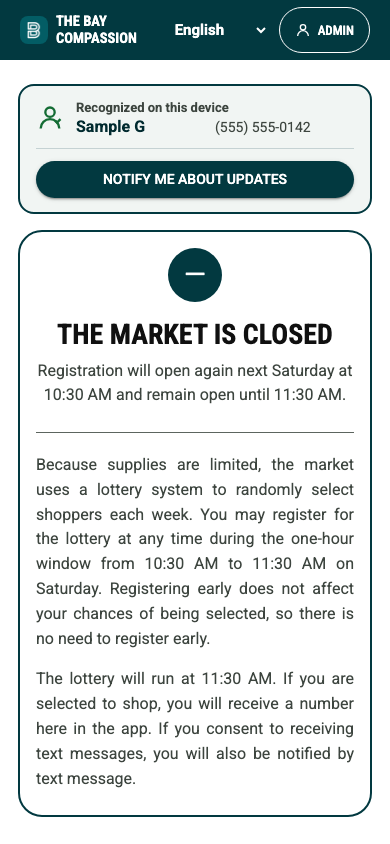
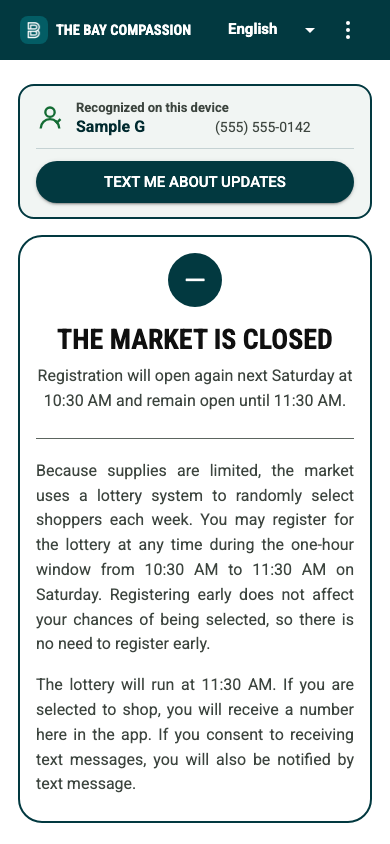
fix: update SMS consent labels and translations for clarity (#87)
- Replaced "Notify Me About Updates" with "Text Me About Updates" across the UI.
- Updated translations for all supported languages to reflect the new terminology.
- Adjusted related scripts, HTML content, and images to align with label changes.

diff --git a/src/locales.ts b/src/locales.ts
@@ -195,10 +195,10 @@ export const translations = {
 				questionsLegend: 'Questions',
 			},
 			identityIndicator: {
-				closeNotificationsDialog: 'Close notification updates',
+				closeNotificationsDialog: 'Close text message updates',
 				heading: 'Recognized on this device',
-				notificationsAction: 'Notify Me About Updates',
-				notificationsDialogTitle: 'Notification Updates',
+				notificationsAction: 'Text Me About Updates',
+				notificationsDialogTitle: 'Text Message Updates',
 				notificationsEnabled: 'Notifications Enabled',
 				notificationsError:
 					'We could not retrieve your notification status. Please try again later.',
@@ -366,10 +366,10 @@ export const translations = {
 				questionsLegend: 'Preguntas',
 			},
 			identityIndicator: {
-				closeNotificationsDialog: 'Cerrar actualizaciones de notificaciones',
+				closeNotificationsDialog: 'Cerrar actualizaciones por SMS',
 				heading: 'Reconocido en este dispositivo',
-				notificationsAction: 'Notificarme sobre novedades',
-				notificationsDialogTitle: 'Actualizaciones por notificación',
+				notificationsAction: 'Enviarme novedades por SMS',
+				notificationsDialogTitle: 'Actualizaciones por SMS',
 				notificationsEnabled: 'Notificaciones activadas',
 				notificationsError:
 					'No pudimos consultar el estado de sus notificaciones. Inténtelo de nuevo más tarde.',
@@ -539,10 +539,10 @@ export const translations = {
 				questionsLegend: 'پرسشها',
 			},
 			identityIndicator: {
-				closeNotificationsDialog: 'بستن بهروزرسانی اعلانها',
+				closeNotificationsDialog: 'بستن بهروزرسانیهای پیامکی',
 				heading: 'شناساییشده در این دستگاه',
-				notificationsAction: 'مرا از بهروزرسانیها باخبر کنید',
-				notificationsDialogTitle: 'بهروزرسانیهای اعلان',
+				notificationsAction: 'بهروزرسانیها را برایم پیامک کنید',
+				notificationsDialogTitle: 'بهروزرسانیهای پیامکی',
 				notificationsEnabled: 'اعلانها فعال هستند',
 				notificationsError: 'وضعیت اعلانهای شما دریافت نشد. لطفاً بعداً دوباره تلاش کنید.',
 				notificationsLoading: 'در حال بررسی وضعیت اعلانها…',
@@ -709,10 +709,10 @@ export const translations = {
 				questionsLegend: 'Mga tanong',
 			},
 			identityIndicator: {
-				closeNotificationsDialog: 'Isara ang mga update sa abiso',
+				closeNotificationsDialog: 'Isara ang mga update sa text',
 				heading: 'Nakilala sa device na ito',
-				notificationsAction: 'Abisuhan Ako Tungkol sa mga Update',
-				notificationsDialogTitle: 'Mga Update sa Abiso',
+				notificationsAction: 'I-text sa Akin ang mga Update',
+				notificationsDialogTitle: 'Mga Update sa Text',
 				notificationsEnabled: 'Naka-enable ang mga Abiso',
 				notificationsError:
 					'Hindi namin makuha ang status ng iyong mga abiso. Pakisubukang muli mamaya.',
@@ -884,10 +884,10 @@ export const translations = {
 				questionsLegend: 'Câu hỏi',
 			},
 			identityIndicator: {
-				closeNotificationsDialog: 'Đóng cập nhật thông báo',
+				closeNotificationsDialog: 'Đóng cập nhật qua SMS',
 				heading: 'Đã nhận dạng trên thiết bị này',
-				notificationsAction: 'Thông báo cho tôi về cập nhật',
-				notificationsDialogTitle: 'Cập nhật thông báo',
+				notificationsAction: 'Gửi cập nhật cho tôi qua SMS',
+				notificationsDialogTitle: 'Cập nhật qua SMS',
 				notificationsEnabled: 'Đã bật thông báo',
 				notificationsError: 'Không thể tải trạng thái thông báo của bạn. Vui lòng thử lại sau.',
 				notificationsLoading: 'Đang kiểm tra trạng thái thông báo…',
@@ -1054,10 +1054,10 @@ export const translations = {
 				questionsLegend: '问题',
 			},
 			identityIndicator: {
-				closeNotificationsDialog: '关闭通知更新',
+				closeNotificationsDialog: '关闭短信更新',
 				heading: '已在此设备上识别',
-				notificationsAction: '有更新时通知我',
-				notificationsDialogTitle: '通知更新',
+				notificationsAction: '通过短信通知我最新消息',
+				notificationsDialogTitle: '短信更新',
 				notificationsEnabled: '通知已启用',
 				notificationsError: '无法获取您的通知状态。请稍后重试。',
 				notificationsLoading: '正在检查通知状态…',
@@ -1215,10 +1215,10 @@ export const translations = {
 				questionsLegend: 'أسئلة',
 			},
 			identityIndicator: {
-				closeNotificationsDialog: 'إغلاق تحديثات الإشعارات',
+				closeNotificationsDialog: 'إغلاق تحديثات الرسائل النصية',
 				heading: 'تم التعرّف عليك على هذا الجهاز',
-				notificationsAction: 'أبلغني بالتحديثات',
-				notificationsDialogTitle: 'تحديثات الإشعارات',
+				notificationsAction: 'أرسل لي التحديثات برسائل نصية',
+				notificationsDialogTitle: 'تحديثات الرسائل النصية',
 				notificationsEnabled: 'تم تفعيل الإشعارات',
 				notificationsError: 'تعذر استرداد حالة إشعاراتك. يرجى المحاولة مرة أخرى لاحقًا.',
 				notificationsLoading: 'جارٍ التحقق من حالة الإشعارات…',

diff --git a/public/sms-consent/index.html b/public/sms-consent/index.html
@@ -65,9 +65,9 @@
 					also does not grant consent.
 				</p>
 				<p>
-					An identified guest must select <strong>Notify Me About Updates</strong>, check the
-					separate consent box, and select <strong>Enable text updates</strong>. The checkbox is
-					unchecked by default, and the submission button is disabled until the guest checks it.
+					An identified guest must select <strong>Text Me About Updates</strong>, check the separate
+					consent box, and select <strong>Enable text updates</strong>. The checkbox is unchecked by
+					default, and the submission button is disabled until the guest checks it.
 				</p>
 			</section>
 
@@ -97,14 +97,14 @@
 							<p class="step-number">Step 2</p>
 							<h2>Select the Separate Notification Action</h2>
 							<p>
-								The identified guest selects <strong>Notify Me About Updates</strong>. This opens
-								the consent dialog; it does not itself grant consent.
+								The identified guest selects <strong>Text Me About Updates</strong>. This opens the
+								consent dialog; it does not itself grant consent.
 							</p>
 						</div>
 						<a href="/sms-consent/02-notification-entry-point.png" target="_blank">
 							<img
 								src="/sms-consent/02-notification-entry-point.png"
-								alt="Identified guest with the Notify Me About Updates action"
+								alt="Identified guest with the Text Me About Updates action"
 							/>
 						</a>
 					</article>
